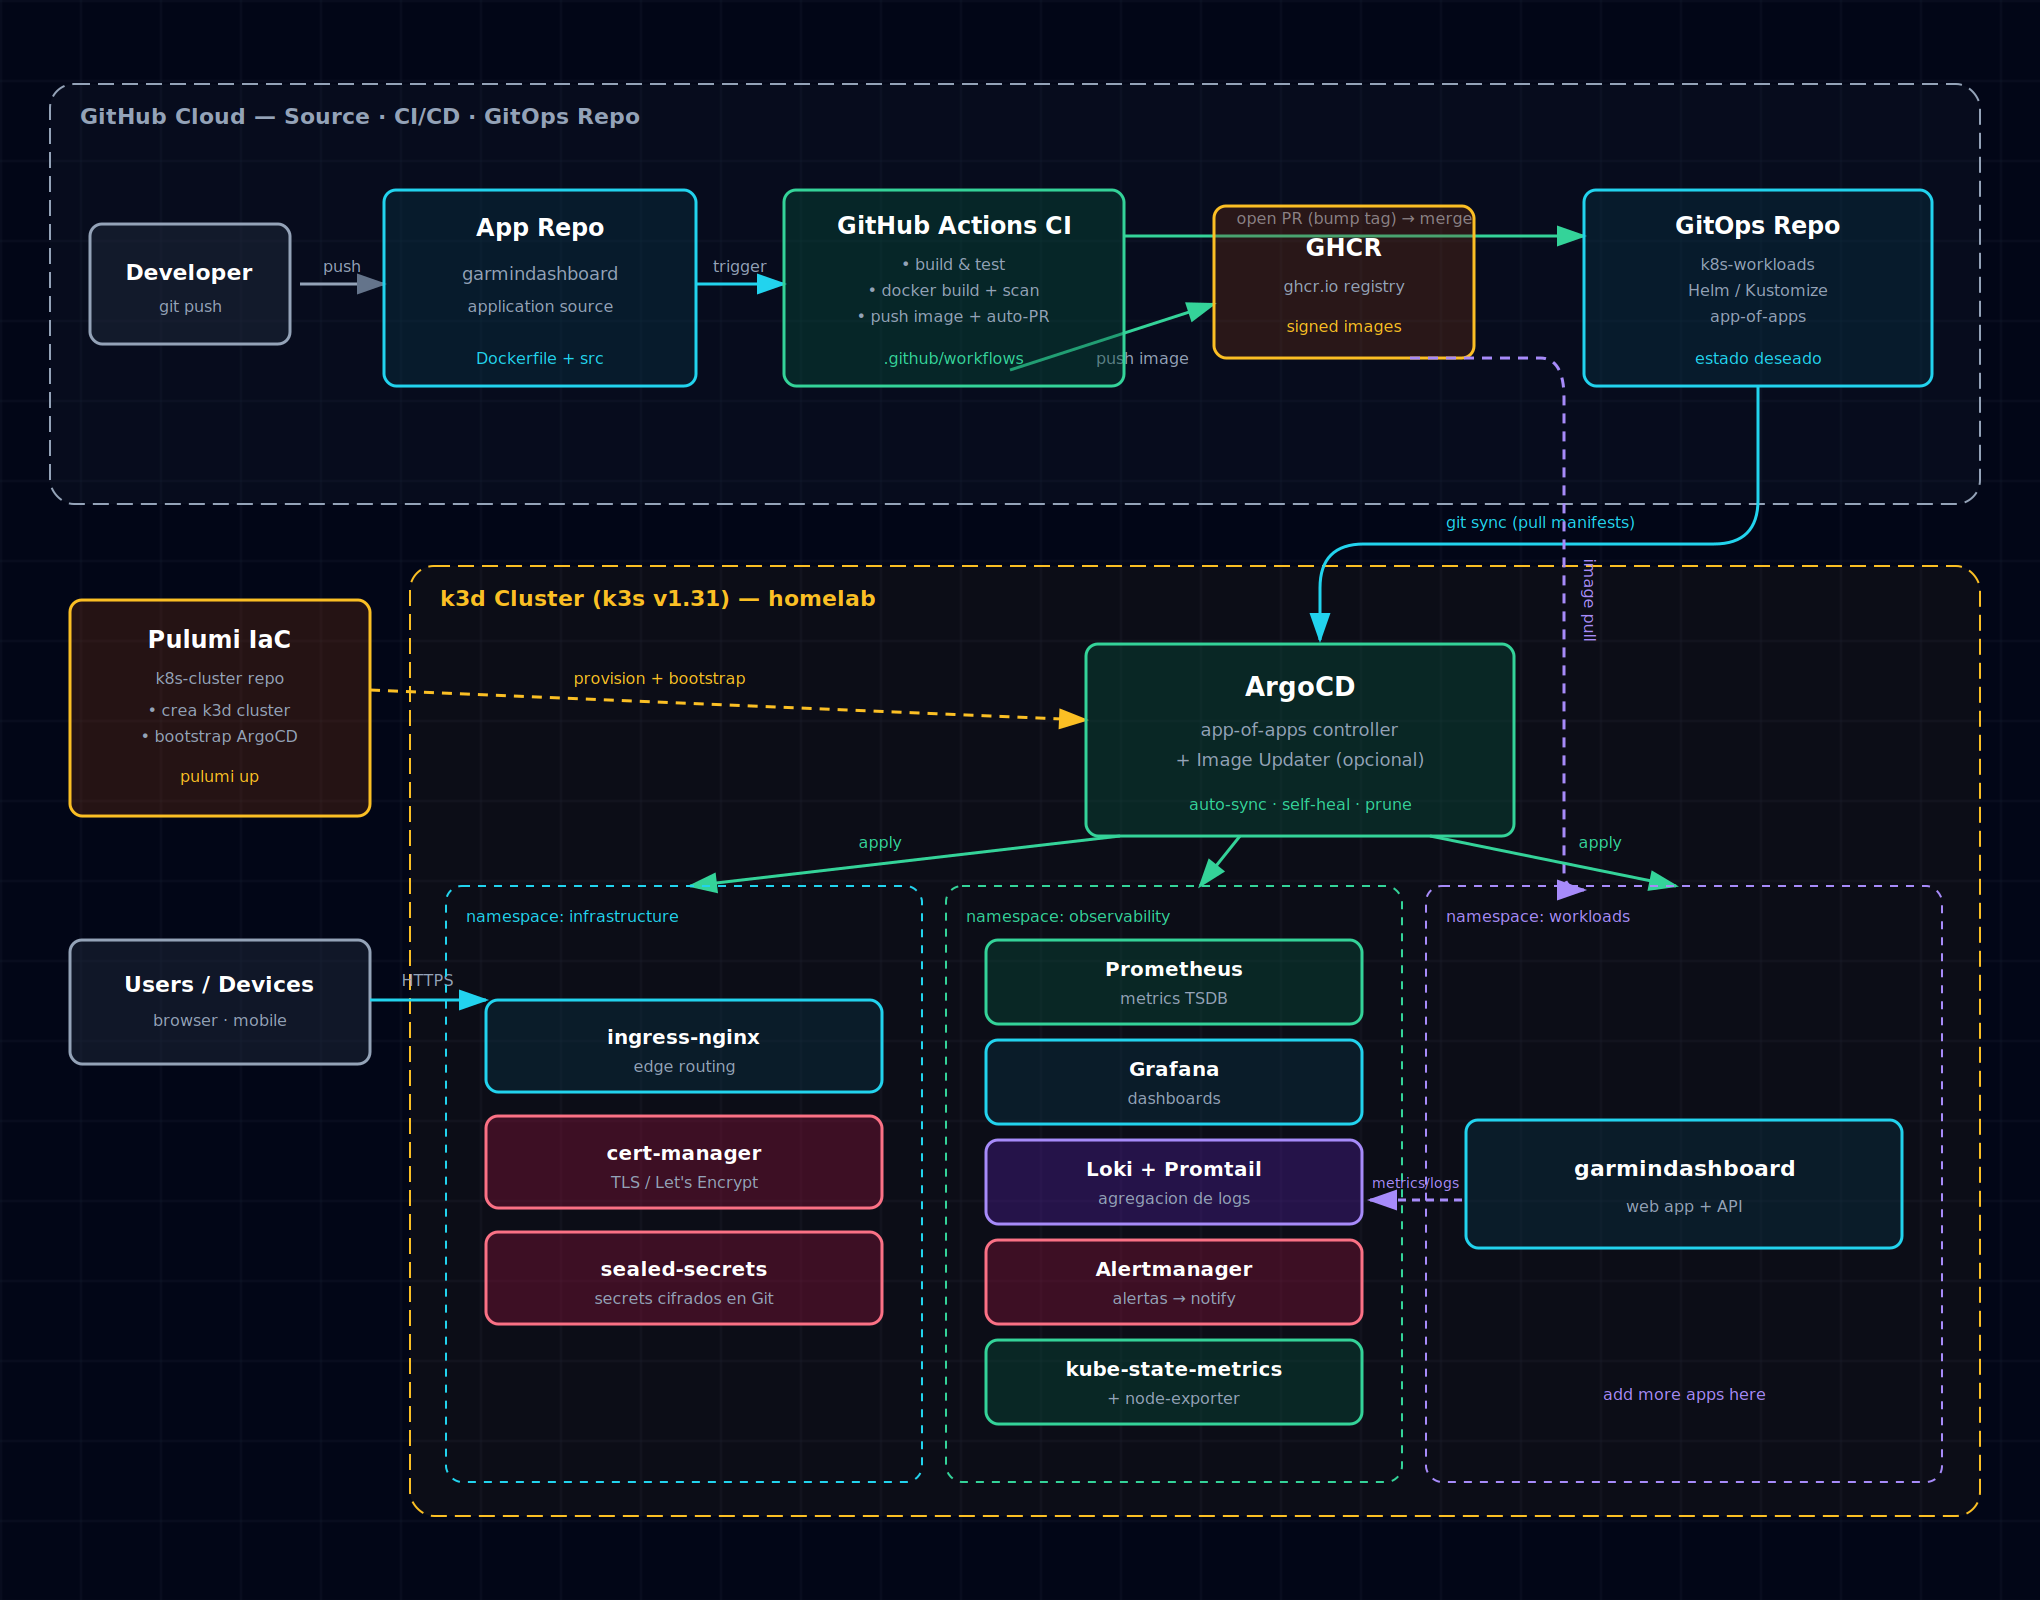
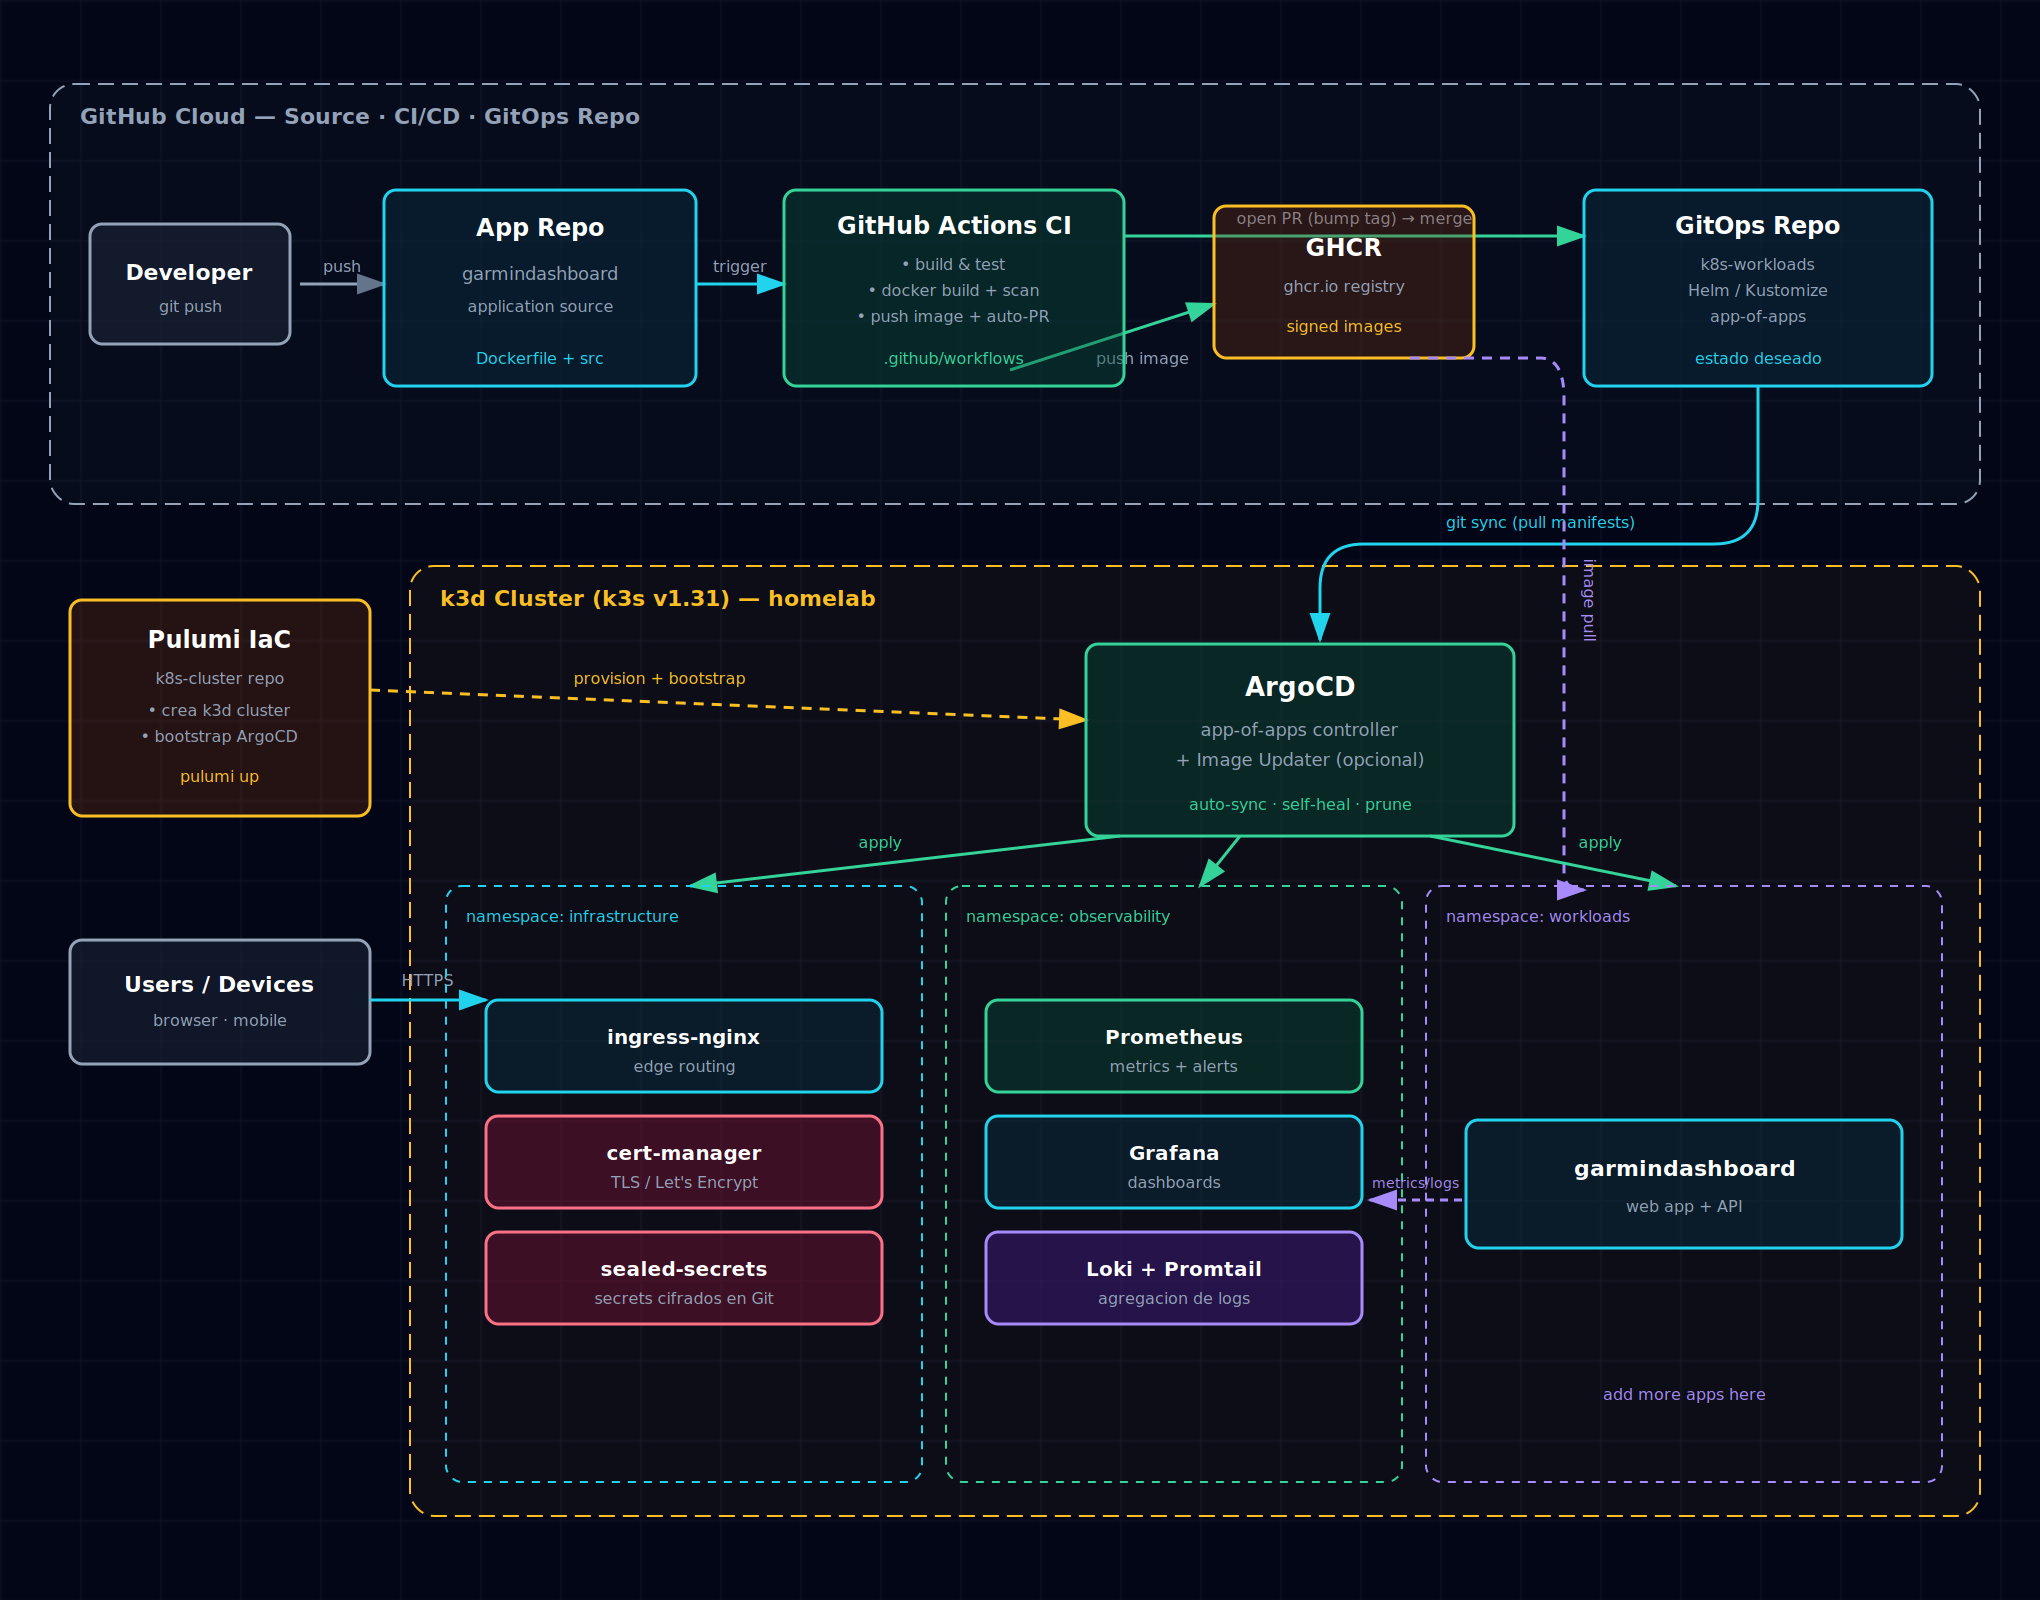
docs: observability -> core essentials (Prometheus, Grafana, Loki)

Changed region(s): [[0.4632, 0.5625, 0.6794, 0.9062]]

diff --git a/docs/architecture.html b/docs/architecture.html
@@ -165,21 +165,15 @@
         <!-- ===================== NAMESPACE: OBSERVABILITY ===================== -->
         <rect x="473" y="443" width="228" height="298" rx="8" fill="transparent" stroke="#34d399" stroke-width="1" stroke-dasharray="4,4"/>
         <text x="483" y="461" fill="#34d399" font-size="8">namespace: observability</text>
-        <rect x="493" y="470" width="188" height="42" rx="6" fill="rgba(6,78,59,0.4)" stroke="#34d399" stroke-width="1.5"/>
-        <text x="587" y="488" fill="white" font-size="10" font-weight="600" text-anchor="middle">Prometheus</text>
-        <text x="587" y="502" fill="#94a3b8" font-size="8" text-anchor="middle">metrics TSDB</text>
-        <rect x="493" y="520" width="188" height="42" rx="6" fill="rgba(8,51,68,0.4)" stroke="#22d3ee" stroke-width="1.5"/>
-        <text x="587" y="538" fill="white" font-size="10" font-weight="600" text-anchor="middle">Grafana</text>
-        <text x="587" y="552" fill="#94a3b8" font-size="8" text-anchor="middle">dashboards</text>
-        <rect x="493" y="570" width="188" height="42" rx="6" fill="rgba(76,29,149,0.4)" stroke="#a78bfa" stroke-width="1.5"/>
-        <text x="587" y="588" fill="white" font-size="10" font-weight="600" text-anchor="middle">Loki + Promtail</text>
-        <text x="587" y="602" fill="#94a3b8" font-size="8" text-anchor="middle">agregacion de logs</text>
-        <rect x="493" y="620" width="188" height="42" rx="6" fill="rgba(136,19,55,0.4)" stroke="#fb7185" stroke-width="1.5"/>
-        <text x="587" y="638" fill="white" font-size="10" font-weight="600" text-anchor="middle">Alertmanager</text>
-        <text x="587" y="652" fill="#94a3b8" font-size="8" text-anchor="middle">alertas &rarr; notify</text>
-        <rect x="493" y="670" width="188" height="42" rx="6" fill="rgba(6,78,59,0.4)" stroke="#34d399" stroke-width="1.5"/>
-        <text x="587" y="688" fill="white" font-size="10" font-weight="600" text-anchor="middle">kube-state-metrics</text>
-        <text x="587" y="702" fill="#94a3b8" font-size="8" text-anchor="middle">+ node-exporter</text>
+        <rect x="493" y="500" width="188" height="46" rx="6" fill="rgba(6,78,59,0.4)" stroke="#34d399" stroke-width="1.5"/>
+        <text x="587" y="522" fill="white" font-size="10" font-weight="600" text-anchor="middle">Prometheus</text>
+        <text x="587" y="536" fill="#94a3b8" font-size="8" text-anchor="middle">metrics + alerts</text>
+        <rect x="493" y="558" width="188" height="46" rx="6" fill="rgba(8,51,68,0.4)" stroke="#22d3ee" stroke-width="1.5"/>
+        <text x="587" y="580" fill="white" font-size="10" font-weight="600" text-anchor="middle">Grafana</text>
+        <text x="587" y="594" fill="#94a3b8" font-size="8" text-anchor="middle">dashboards</text>
+        <rect x="493" y="616" width="188" height="46" rx="6" fill="rgba(76,29,149,0.4)" stroke="#a78bfa" stroke-width="1.5"/>
+        <text x="587" y="638" fill="white" font-size="10" font-weight="600" text-anchor="middle">Loki + Promtail</text>
+        <text x="587" y="652" fill="#94a3b8" font-size="8" text-anchor="middle">agregacion de logs</text>
 
         <!-- ===================== NAMESPACE: WORKLOADS ===================== -->
         <rect x="713" y="443" width="258" height="298" rx="8" fill="transparent" stroke="#a78bfa" stroke-width="1" stroke-dasharray="4,4"/>
@@ -219,10 +213,9 @@
       <div class="card">
         <div class="card-header"><div class="card-dot violet"></div><h3>Observabilidad</h3></div>
         <ul>
-          <li>&bull; Prometheus + kube-state + node-exporter</li>
+          <li>&bull; Prometheus para metricas + alertas</li>
           <li>&bull; Grafana con dashboards provisionados</li>
           <li>&bull; Loki + Promtail para logs centralizados</li>
-          <li>&bull; Alertmanager &rarr; Slack/Telegram/email</li>
         </ul>
       </div>
     </div>

diff --git a/README.md b/README.md
@@ -79,7 +79,7 @@ That's it. The whole platform stands up from Git.
 | **GitOps** | ArgoCD (app-of-apps), sealed-secrets |
 | **CI/CD** | GitHub Actions (reusable workflow), GHCR, Trivy scan |
 | **Networking** | ingress-nginx, cert-manager |
-| **Observability** | Prometheus, Grafana, Loki + Promtail, Alertmanager |
+| **Observability** | Prometheus, Grafana, Loki + Promtail |
 | **Workloads** | garmindashboard |
 
 ---
